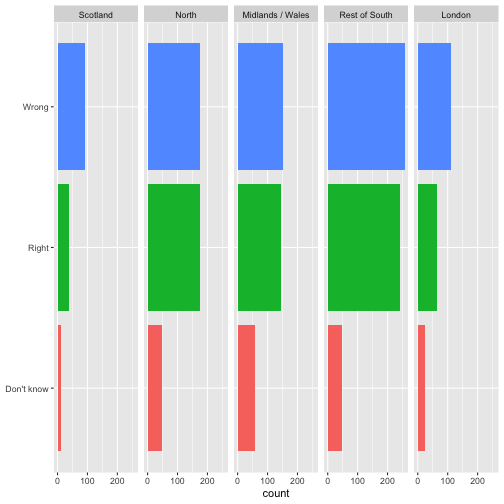
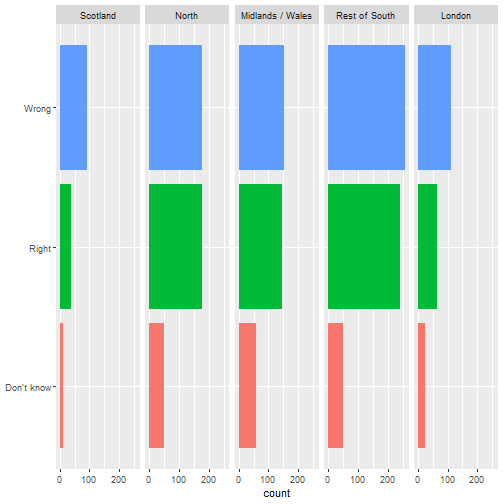
w06-L12 slides update on the website

diff --git a/slides/w06-L12/w06-L12.html b/slides/w06-L12/w06-L12.html
@@ -5,8 +5,8 @@
     <meta charset="utf-8" />
     <meta name="author" content="University of Edinburgh" />
     <script src="libs/header-attrs-2.29/header-attrs.js"></script>
-    <link href="libs/panelset-0.3.0/panelset.css" rel="stylesheet" />
-    <script src="libs/panelset-0.3.0/panelset.js"></script>
+    <link href="libs/panelset-0.2.6/panelset.css" rel="stylesheet" />
+    <script src="libs/panelset-0.2.6/panelset.js"></script>
     <link rel="stylesheet" href="xaringan-themer.css" type="text/css" />
     <link rel="stylesheet" href="slides.css" type="text/css" />
   </head>
@@ -24,7 +24,7 @@ class: center, middle, inverse, title-slide
 ### University of Edinburgh
 ]
 .date[
-### <br> 2025/2026
+### <br> 2026/2027
 ]
 
 ---
@@ -46,12 +46,14 @@ class: center, middle, inverse, title-slide
 
 ##  Let's have a discussion
 
+Which one seems better do you think, why ? **TPSA**
+
 .pull-left[
-&lt;img src="w06-L12_files/figure-html/unnamed-chunk-1-1.png" width="100%" style="display: block; margin: auto;" /&gt;
+&lt;img src="w06-L12_files/figure-html/unnamed-chunk-1-1.png" width="80%" style="display: block; margin: auto;" /&gt;
 ]
 
 .pull-right[
-&lt;img src="w06-L12_files/figure-html/unnamed-chunk-2-1.png" width="100%" style="display: block; margin: auto;" /&gt;
+&lt;img src="w06-L12_files/figure-html/unnamed-chunk-2-1.png" width="80%" style="display: block; margin: auto;" /&gt;
 ]
 
 ---
@@ -103,7 +105,7 @@ Source: [YouGov Survey Results](https://d25d2506sfb94s.cloudfront.net/cumulus_up
 
 .pull-left[
 
-``` r
+```r
 brexit &lt;- read_csv("data/brexit.csv")
 brexit %&gt;% head(n = 2)
 ```
@@ -116,7 +118,7 @@ brexit %&gt;% head(n = 2)
 ## 2 Wrong   north
 ```
 
-``` r
+```r
 brexit %&gt;% tail(n = 2)
 ```
 
@@ -148,14 +150,14 @@ brexit %&gt;% tail(n = 2)
 .panel[.panel-name[Code]
 .pull-left[
 
-``` r
+```r
 ggplot(brexit, aes(x = opinion)) +
   geom_bar()
 ```
 ]
 .pull-right[
 
-``` r
+```r
 ggplot(brexit, aes(x = region)) +
   geom_bar()
 ```
@@ -174,7 +176,7 @@ Are people's opinion about Brexit the same or different for each region?
 ]
 
 
-``` r
+```r
 ggplot(brexit, aes(x = region, 
                    fill = opinion)) +
   geom_bar()
@@ -185,7 +187,7 @@ ggplot(brexit, aes(x = region,
 &lt;img src="w06-L12_files/figure-html/unnamed-chunk-7-1.png" width="80%" style="display: block; margin: auto;" /&gt;
 ]
 
-Are we done? Can we do any better?
+Are we done? Can we do any better? 
 
 
 ---
@@ -203,7 +205,7 @@ Are we done? Can we do any better?
 ]
 .panel[.panel-name[Code: Wrangling]
 
-``` r
+```r
 brexit &lt;- brexit %&gt;%
   mutate(
 *   region = fct_recode(
@@ -220,7 +222,7 @@ brexit &lt;- brexit %&gt;%
 .panel[.panel-name[Code: Visualisation]
 
 
-``` r
+```r
 *ggplot(brexit, aes(y = region,
                    fill = opinion)) +
   geom_bar()
@@ -231,9 +233,7 @@ brexit &lt;- brexit %&gt;%
 
 ---
 
-## Is there a better ording
-
-
+## Is there a better ordering
 
 
 
@@ -245,7 +245,7 @@ brexit &lt;- brexit %&gt;%
 ]
 .panel[.panel-name[Code: Wrangling]
 
-``` r
+```r
 brexit &lt;- brexit %&gt;%
   mutate(
     region = fct_recode(
@@ -264,7 +264,7 @@ brexit &lt;- brexit %&gt;%
 .panel[.panel-name[Code: Visualisation]
 
 
-``` r
+```r
 ggplot(brexit, aes(y = region,
                    fill = opinion)) +
   geom_bar()
@@ -290,7 +290,7 @@ ggplot(brexit, aes(y = region,
 
 .panel[.panel-name[Code: Wrangling]
 
-``` r
+```r
 brexit &lt;- brexit %&gt;%
   mutate(
     region = fct_recode(
@@ -310,7 +310,7 @@ brexit &lt;- brexit %&gt;%
 .panel[.panel-name[Code: Visualisation]
 
 
-``` r
+```r
 *ggplot(brexit, aes(y = opinion,
                    fill = opinion)) +
   geom_bar() +
@@ -336,7 +336,7 @@ brexit &lt;- brexit %&gt;%
 
 .panel[.panel-name[Code: Wrangling]
 
-``` r
+```r
 brexit &lt;- brexit %&gt;%
   mutate(
     region = fct_recode(
@@ -356,7 +356,7 @@ brexit &lt;- brexit %&gt;%
 .panel[.panel-name[Code: Visualisation]
 
 
-``` r
+```r
 ggplot(brexit, aes(y = opinion,    
                    fill = opinion)) +
   geom_bar() +
@@ -387,7 +387,7 @@ ggplot(brexit, aes(y = opinion,
 .panel[.panel-name[Code: Wrangling]
 
 
-``` r
+```r
 brexit &lt;- brexit %&gt;%
   mutate(
     region = fct_recode(
@@ -407,7 +407,7 @@ brexit &lt;- brexit %&gt;%
 .panel[.panel-name[Code: Visualisation]
 
 
-``` r
+```r
 ggplot(brexit, aes(y = opinion,    
                    fill = opinion)) +
   geom_bar() +
@@ -427,12 +427,13 @@ ggplot(brexit, aes(y = opinion,
 
 ## Selection of colours
 
-&lt;img src="img/color-pallet.png" width="80%" style="display: block; margin: auto;" /&gt;
+&lt;img src="img/color-pallet.png" width="60%" style="display: block; margin: auto;" /&gt;
 
+[colorbrewer2.org](https://colorbrewer2.org/) - Help with selecting a colour pallette
 
-[colorbrewer2.org](https://colorbrewer2.org/) - Help with selecting a colour pallet
+[Color Palette Finder](https://r-graph-gallery.com/color-palette-finder) - Getting help for choosing right colors. 
 
-
+[Working with colours in R](https://nrennie.rbind.io/blog/colours-in-r/) - some use cases to explore
 
 ---
 
@@ -452,7 +453,7 @@ ggplot(brexit, aes(y = opinion,
 .panel[.panel-name[Code: Wrangling]
 
 
-``` r
+```r
 brexit &lt;- brexit %&gt;%
   mutate(
     region = fct_recode(
@@ -472,7 +473,7 @@ brexit &lt;- brexit %&gt;%
 .panel[.panel-name[Code: Visualisation]
 
 
-``` r
+```r
 ggplot(brexit, aes(y = opinion,    
                    fill = opinion)) +
   geom_bar() +
@@ -514,14 +515,64 @@ Are people's opinion about Brexit the same or different for each region?
 &lt;img src="w06-L12_files/figure-html/unnamed-chunk-15-1.png" width="100%" style="display: block; margin: auto;" /&gt;
 ]
 
+---
+
+## Some data viz related stories to explore
+
+Have a look at these interesting examples 
+
+- [One Dataset, Visualized 25 Ways](https://flowingdata.com/2017/01/24/one-dataset-visualized-25-ways)
+
+- [Why are K-pop groups so big?](https://pudding.cool/2020/10/kpop/)
+
+- [Visualise, Optimise, Parameterise!](https://www.cararthompson.com/talks/visualise-optimise-parameterise/)
+
+- [Waffle chart for evolution of energy mix](https://r-graph-gallery.com/web-waffle-chart-for-evolution-of-energy-mix.html)
+
+---
+
+## Glossary Summary I 
+
+| Term | In plain words |
+|:-----|:---------------|
+| **function** | A command that does a job, written with parentheses, e.g. `glimpse()`, `ggplot()` |
+| **argument** | A setting you give a function inside its parentheses, e.g. `binwidth = 100` |
+| **aesthetic (`aes()`)** | A visual property of the plot (x, y, `color`, `fill`, `shape`, `size`) that a variable is *mapped* to |
+| **geom layer** | The shape that draws the data: `geom_bar()`, `geom_histogram()`, `geom_point()`, `geom_boxplot()` |
+| **bar plot** | Bars showing how many observations fall in each category |
+| **histogram** | Bars showing how many numeric values fall in each range (**bin**); **binwidth** = how wide each range is |
+
+---
+
+## Glossary Summary II 
+
+| Term | In plain words |
+|:-----|:---------------|
+| **boxplot** | Summarizes a numeric variable with a box (middle 50%), a line (median), whiskers and outlier dots |
+| **median** | The middle value when values are sorted; half are below, half above |
+| **Q1 / Q3** | Quartiles: 25% of values are below Q1; 75% are below Q3 |
+| **IQR** | Interquartile range = Q3 − Q1, the width of the box (the middle 50% of data) |
+| **whiskers / outlier** | Whiskers reach out to 1.5 × IQR beyond the box; points past that are possible **outliers** (unusually large or small) |
+
+---
+
+## Glossary Summary III  
+
+| Term | In plain words |
+|:-----|:---------------|
+| **stacked bar plot** | Each bar is split into colored pieces by a second categorical variable |
+| **standardized stacked** | Stacked bars stretched to the same height so you compare *proportions* (`position = "fill"`) |
+| **scatterplot** | One dot per observation, showing the relationship between two numeric variables |
+| **legend** | The key that explains what each color, shape or size stands for |
+| **color palette** | A set of colors mapped to data variables or applied to geometric elements (like points, lines, bars, and fill areas) |
     </textarea>
 <style data-target="print-only">@media screen {.remark-slide-container{display:block;}.remark-slide-scaler{box-shadow:none;}}</style>
 <script src="https://remarkjs.com/downloads/remark-latest.min.js"></script>
 <script>var slideshow = remark.create({
-  "ratio": "16:9",
-  "highlightLines": true,
-  "highlightStyle": "solarized-light",
-  "countIncrementalSlides": false
+"ratio": "16:9",
+"highlightLines": true,
+"highlightStyle": "solarized-light",
+"countIncrementalSlides": false
 });
 if (window.HTMLWidgets) slideshow.on('afterShowSlide', function (slide) {
   window.dispatchEvent(new Event('resize'));
